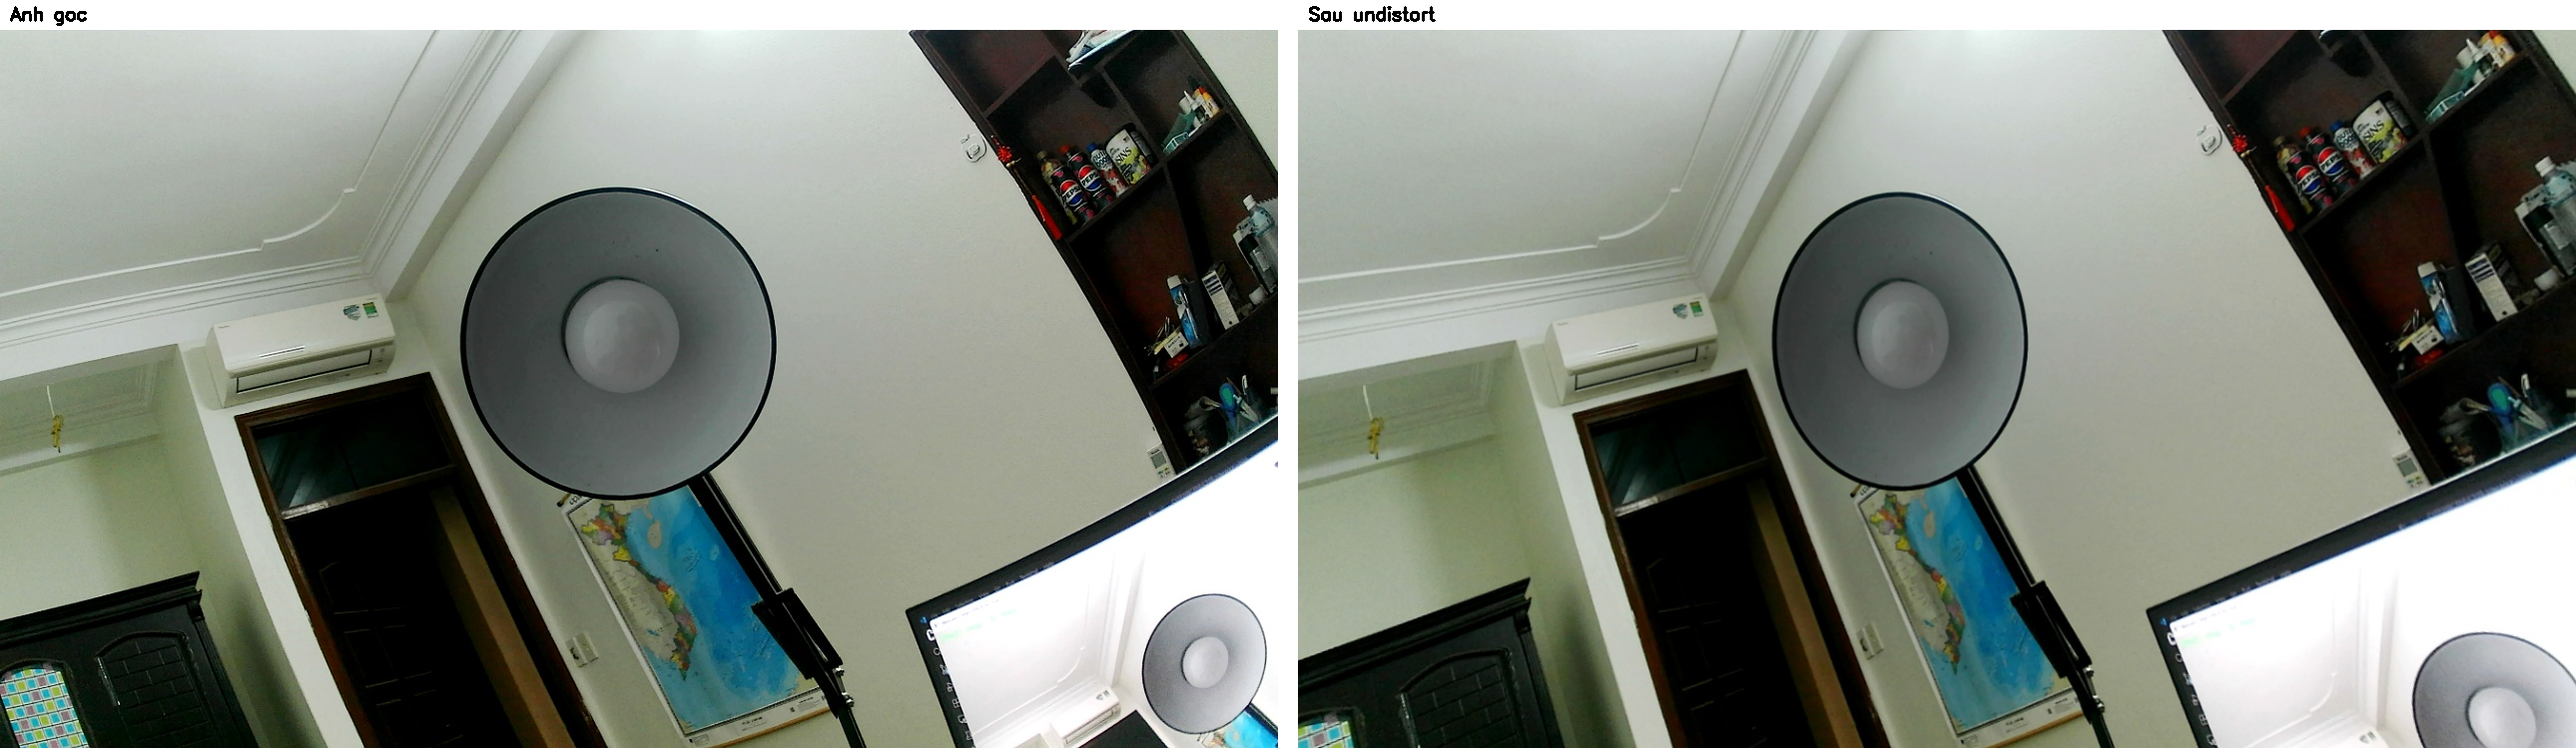
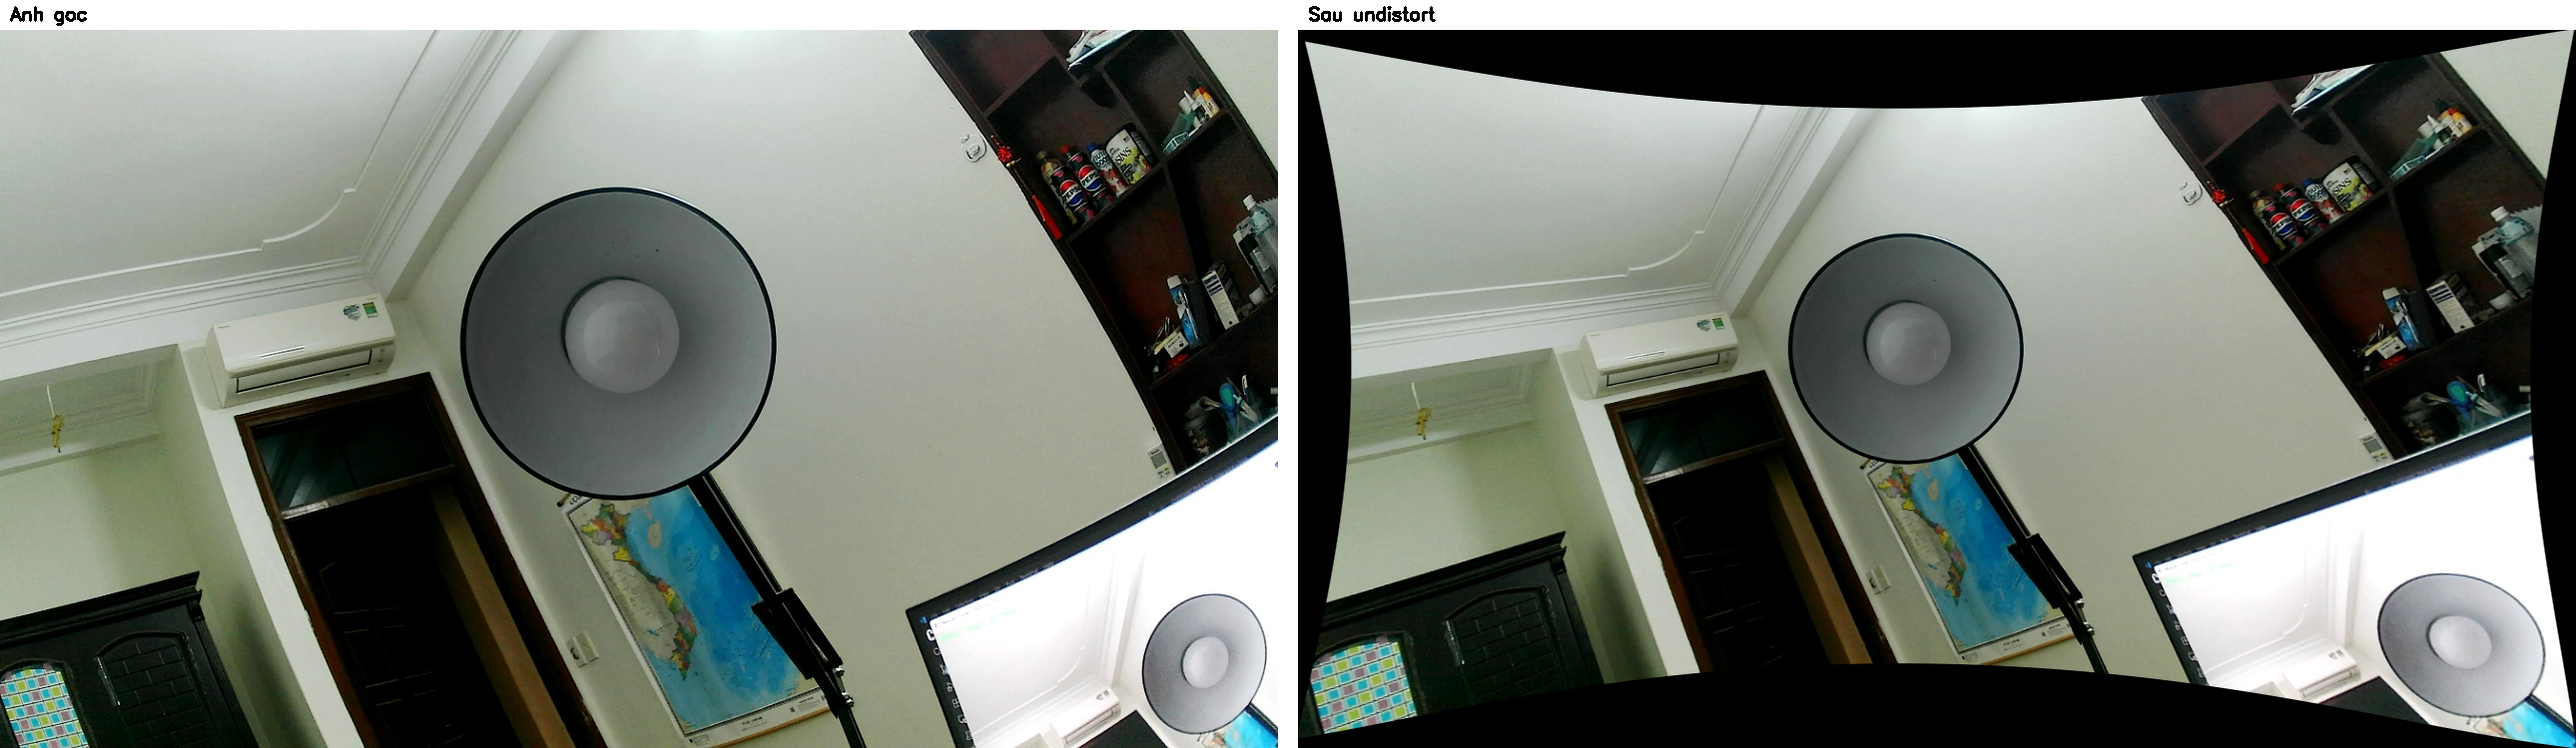
sprint2

Changed region(s): [[0.4961, 0.0307, 1.0, 1.0]]

diff --git a/tests/test_homography_manual.py b/tests/test_homography_manual.py
@@ -1,0 +1,114 @@
+"""
+test_homography_manual.py
+Test thu cong theo dung yeu cau "Cuoi tuan" cua Tuan 4: dat 1 chessboard
+(vat chuan) + 1 vat khac da biet truoc kich thuoc that trong cung 1 mat
+phang, chup 1 anh, roi chay script nay de kiem tra xem homography suy ra
+kich thuoc co gan dung khong.
+
+Cach dung:
+python .\tests\test_homography_manual.py `
+  --calib .\outputs\calibration_results\calibration_data.pkl `
+  --image .\data\calibration_test\homography_test.jpg `
+  --square-mm 29 --cols 8 --rows 5 `
+  --true-mm 80
+
+--cols/--rows la SO GOC TRONG cua chessboard (giong het thong so da dung
+luc calibrateCamera() o Tuan 3, khong phai so o vuong).
+
+Sau khi cua so anh hien len:
+    1. Click 2 diem dau-cuoi cua vat can kiem tra (vat co kich thuoc that
+       da biet, --true-mm) tren anh.
+    2. Sau khi click du 2 diem, ket qua so sanh se duoc in ra console.
+    3. Nhan ESC bat cu luc nao de huy.
+"""
+
+import argparse
+import os
+import sys
+
+import cv2
+
+sys.path.insert(0, os.getcwd())  # cho phep chay script tu thu muc goc project
+from src.calibration.undistort import load_calibration, undistort_image
+from src.measurement.homography import compute_homography, distance_mm, draw_chessboard
+
+clicked_points = []
+
+
+def on_mouse(event, x, y, flags, param):
+    if event == cv2.EVENT_LBUTTONDOWN and len(clicked_points) < 2:
+        clicked_points.append((x, y))
+        print(f"Da chon diem {len(clicked_points)}: ({x}, {y})")
+
+
+def main():
+    parser = argparse.ArgumentParser(
+        description='Test homography: do 1 vat da biet kich thuoc that, so sanh voi ket qua he thong tinh ra.'
+    )
+    parser.add_argument('--calib', required=True, help='File calibration (.pkl hoac .npz)')
+    parser.add_argument('--image', required=True, help='Anh chua chessboard + vat can kiem tra')
+    parser.add_argument('--square-mm', type=float, required=True, help='Kich thuoc canh that cua 1 o vuong chessboard (mm)')
+    parser.add_argument('--cols', type=int, required=True, help='So goc trong theo chieu ngang (giong luc calibrateCamera)')
+    parser.add_argument('--rows', type=int, required=True, help='So goc trong theo chieu doc (giong luc calibrateCamera)')
+    parser.add_argument('--true-mm', type=float, required=True, help='Kich thuoc that (mm) cua vat se click de kiem tra')
+    args = parser.parse_args()
+
+    mtx, dist = load_calibration(args.calib)
+    img = cv2.imread(args.image)
+    if img is None:
+        raise FileNotFoundError(f"Khong doc duoc anh: {args.image}")
+
+    undistorted = undistort_image(img, mtx, dist, crop=True)
+
+    pattern_size = (args.cols, args.rows)
+    H, corners = compute_homography(undistorted, args.square_mm, pattern_size)
+    if H is None:
+        print(f"Khong tim thay chessboard {pattern_size[0]}x{pattern_size[1]} goc trong trong anh.")
+        print("Kiem tra lai: --cols/--rows co dung so goc trong khong (dung voi rows/cols hoan doi),")
+        print("anh co du sang/net khong, chessboard co bi che khuat goc nao khong.")
+        return
+    print(f"Da phat hien chessboard {pattern_size[0]}x{pattern_size[1]} goc trong.")
+
+    preview = draw_chessboard(undistorted, pattern_size, corners, True)
+    cv2.putText(preview, "Click 2 diem dau-cuoi vat can do", (10, 30),
+                cv2.FONT_HERSHEY_SIMPLEX, 0.6, (0, 0, 255), 2)
+
+    cv2.namedWindow('Test homography')
+    cv2.setMouseCallback('Test homography', on_mouse)
+
+    while True:
+        show = preview.copy()
+        for i, p in enumerate(clicked_points):
+            cv2.circle(show, p, 5, (0, 0, 255), -1)
+            cv2.putText(show, str(i + 1), (p[0] + 8, p[1]), cv2.FONT_HERSHEY_SIMPLEX, 0.6, (0, 0, 255), 2)
+        if len(clicked_points) == 2:
+            cv2.line(show, clicked_points[0], clicked_points[1], (0, 255, 0), 2)
+
+        cv2.imshow('Test homography', show)
+        key = cv2.waitKey(20) & 0xFF
+        if len(clicked_points) == 2 or key == 27:
+            break
+
+    cv2.destroyAllWindows()
+
+    if len(clicked_points) < 2:
+        print("Chua chon du 2 diem, huy test.")
+        return
+
+    measured_mm = distance_mm(clicked_points[0], clicked_points[1], H)
+    error_mm = measured_mm - args.true_mm
+    error_pct = abs(error_mm) / args.true_mm * 100
+
+    print("\n----- KET QUA TEST HOMOGRAPHY -----")
+    print(f"Kich thuoc do duoc  : {measured_mm:.2f} mm")
+    print(f"Kich thuoc that     : {args.true_mm:.2f} mm")
+    print(f"Sai lech            : {error_mm:+.2f} mm ({error_pct:.2f}%)")
+    if error_pct <= 3:
+        print("=> Sai so trong nguong chap nhan duoc (<= 3%).")
+    else:
+        print("=> Sai so con lon, kiem tra lai: chessboard co dung mat phang voi vat khong,")
+        print("   anh da undistort dung chua, hoac click diem co chinh xac khong.")
+
+
+if __name__ == '__main__':
+    main()

diff --git a/src/measurement/homography.py b/src/measurement/homography.py
@@ -1,0 +1,93 @@
+"""
+homography.py
+Phat hien vat chuan (chessboard) trong anh da undistort, va tinh
+homography de quy doi toa do pixel sang toa do thuc (mm) tren mat
+phang chua vat chuan.
+
+Gia dinh quan trong: vat can do phai nam CUNG MAT PHANG voi chessboard
+(dat vat len cung 1 be mat phang voi bang, khong chong len nhau).
+Neu vat co do day dang ke, ket qua se co sai so he thong tang dan
+theo do day cua vat (vi diem do khong con dung tren mat phang chuan).
+
+pattern_size = (cols, rows) la SO GOC TRONG (inner corners), KHONG PHAI
+so o vuong - VD ban co chessboard co 10x7 o vuong thi pattern_size = (9, 6).
+Day cung chinh la (cols, rows) da dung luc calibrateCamera() o Tuan 3.
+"""
+
+import cv2
+import numpy as np
+
+CORNER_SUBPIX_CRITERIA = (cv2.TERM_CRITERIA_EPS + cv2.TERM_CRITERIA_MAX_ITER, 30, 0.001)
+
+
+def detect_chessboard(image, pattern_size):
+    """
+    Tim goc trong cua chessboard trong anh, da refine toi do chinh xac sub-pixel.
+    Tra ve (found, corners) - corners shape (N,1,2). corners=None neu khong thay.
+    """
+    gray = cv2.cvtColor(image, cv2.COLOR_BGR2GRAY) if image.ndim == 3 else image
+
+    found, corners = cv2.findChessboardCorners(
+        gray, pattern_size,
+        flags=cv2.CALIB_CB_ADAPTIVE_THRESH + cv2.CALIB_CB_NORMALIZE_IMAGE,
+    )
+    if not found:
+        return False, None
+
+    corners = cv2.cornerSubPix(gray, corners, (11, 11), (-1, -1), CORNER_SUBPIX_CRITERIA)
+    return True, corners
+
+
+def chessboard_real_world_points(pattern_size, square_mm):
+    """
+    Toa do thuc (mm) cua tung goc trong chessboard, dat goc toa do (0,0)
+    tai goc dau tien - cung thu tu voi corners tra ve tu findChessboardCorners
+    (quet tung hang, tu trai sang phai).
+    """
+    cols, rows = pattern_size
+    obj_points = np.zeros((cols * rows, 2), dtype=np.float32)
+    obj_points[:, :2] = np.mgrid[0:cols, 0:rows].T.reshape(-1, 2) * square_mm
+    return obj_points
+
+
+def compute_homography(image, square_mm, pattern_size):
+    """
+    Detect chessboard trong anh, tinh homography pixel -> mm bang TOAN BO
+    cac goc tim duoc (nhieu diem hon 1 marker ArUco nen on dinh/chinh xac hon).
+
+    Tra ve: (H, corners) - H la ma tran 3x3 (dung cho pixel_to_mm/distance_mm),
+    corners de ve lai kiem tra truc quan. Tra ve (None, None) neu khong thay
+    chessboard - kiem tra lai --cols/--rows co dung so goc trong khong, hoac
+    anh co du sang/net khong.
+    """
+    found, corners = detect_chessboard(image, pattern_size)
+    if not found:
+        return None, None
+
+    real_pts = chessboard_real_world_points(pattern_size, square_mm)
+    pixel_pts = corners.reshape(-1, 2).astype(np.float32)
+
+    H, _ = cv2.findHomography(pixel_pts, real_pts)
+    return H, corners
+
+
+def pixel_to_mm(point, H):
+    """Quy doi 1 diem pixel (x, y) sang toa do mm tren mat phang vat chuan."""
+    pt = np.array([[point]], dtype=np.float32)  # shape (1,1,2)
+    mm_pt = cv2.perspectiveTransform(pt, H)
+    return mm_pt[0][0]  # array([x_mm, y_mm])
+
+
+def distance_mm(p1, p2, H):
+    """Tinh khoang cach thuc (mm) giua 2 diem pixel, dua tren homography H."""
+    a = pixel_to_mm(p1, H)
+    b = pixel_to_mm(p2, H)
+    return float(np.linalg.norm(a - b))
+
+
+def draw_chessboard(image, pattern_size, corners, found=True):
+    """Ve cac goc chessboard da detect duoc len anh, dung de kiem tra truc quan."""
+    out = image.copy()
+    if corners is not None:
+        cv2.drawChessboardCorners(out, pattern_size, corners, found)
+    return out

diff --git a/src/calibration/undistort.py b/src/calibration/undistort.py
@@ -1,0 +1,52 @@
+"""
+undistort.py
+Nap thong so calibration (mtx, dist) va undistort anh.
+Dung chung cho verify_calibration.py va cac module sau nay (homography, segmentation...).
+"""
+
+import pickle
+
+import cv2
+import numpy as np
+
+
+def load_calibration(path):
+    """Doc mtx, dist tu file .pkl hoac .npz, ho tro vai kieu ten khoa pho bien."""
+    if path.endswith('.npz'):
+        data = np.load(path)
+        return np.array(data['mtx']), np.array(data['dist'])
+
+    with open(path, 'rb') as f:
+        data = pickle.load(f)
+
+    mtx = data.get('mtx')
+    if mtx is None:
+        mtx = data.get('camera_matrix')
+    dist = data.get('dist')
+    if dist is None:
+        dist = data.get('distortion_coefficients')
+
+    if mtx is None or dist is None:
+        raise KeyError(
+            f"Khong tim thay 'mtx'/'dist' trong file. Cac khoa hien co: {list(data.keys())}"
+        )
+    return np.array(mtx), np.array(dist)
+
+
+def undistort_image(img, mtx, dist, crop=True):
+    """
+    Sua meo anh bang mtx/dist.
+    crop=True (mac dinh): cat bo vien den sinh ra sau undistort (alpha=0).
+    crop=False: giu nguyen toan bo anh goc, se co vien den cong o goc/canh.
+    """
+    h, w = img.shape[:2]
+    alpha = 0 if crop else 1
+    new_mtx, roi = cv2.getOptimalNewCameraMatrix(mtx, dist, (w, h), alpha)
+    undistorted = cv2.undistort(img, mtx, dist, None, new_mtx)
+
+    if crop:
+        x, y, rw, rh = roi
+        if rw > 0 and rh > 0:
+            undistorted = undistorted[y:y + rh, x:x + rw]
+
+    return undistorted

diff --git a/src/verify_calibration.py b/src/verify_calibration.py
@@ -4,7 +4,7 @@ Kiem chung lai ket qua camera calibration (mtx, dist) truoc khi dung cho
 cac buoc sau (homography, segmentation, edge detection...).
 
 Cach dung:
-    python src/verify_calibration.py --calib outputs/calibration_results/calibration_data.pkl --image data/calibration_test/calib_000.jpg --crop --output outputs/undistort_check.png
+    python src/verify_calibration.py --calib outputs/calibration_results/calibration_data.pkl --image data/calibration_test/calib_000.jpg --output outputs/undistort_check.png
     python src/verify_calibration.py --calib outputs/calibration_results/calibration_data.npz --image data/calibration_test/calib_000.jpg --grid --crop
 """
 

diff --git a/tests/capture_webcam.py b/tests/capture_webcam.py
@@ -4,8 +4,8 @@ Mo webcam, xem truoc, va chup anh luu lai de dung cho verify_calibration.py
 (hoac de chup anh calibration/san pham cho cac buoc sau).
 
 Cach dung:
-    python src/capture_webcam.py --output test.jpg
-    python src/capture_webcam.py --output data/calibration_test/ --prefix calib --width 1280 --height 720
+    python tests/capture_webcam.py --output test.jpg
+    python tests/capture_webcam.py --output data/calibration_test/ --prefix calib --width 1280 --height 720
 
 Phim tat khi cua so preview dang mo:
     SPACE hoac C   -> chup va luu anh
